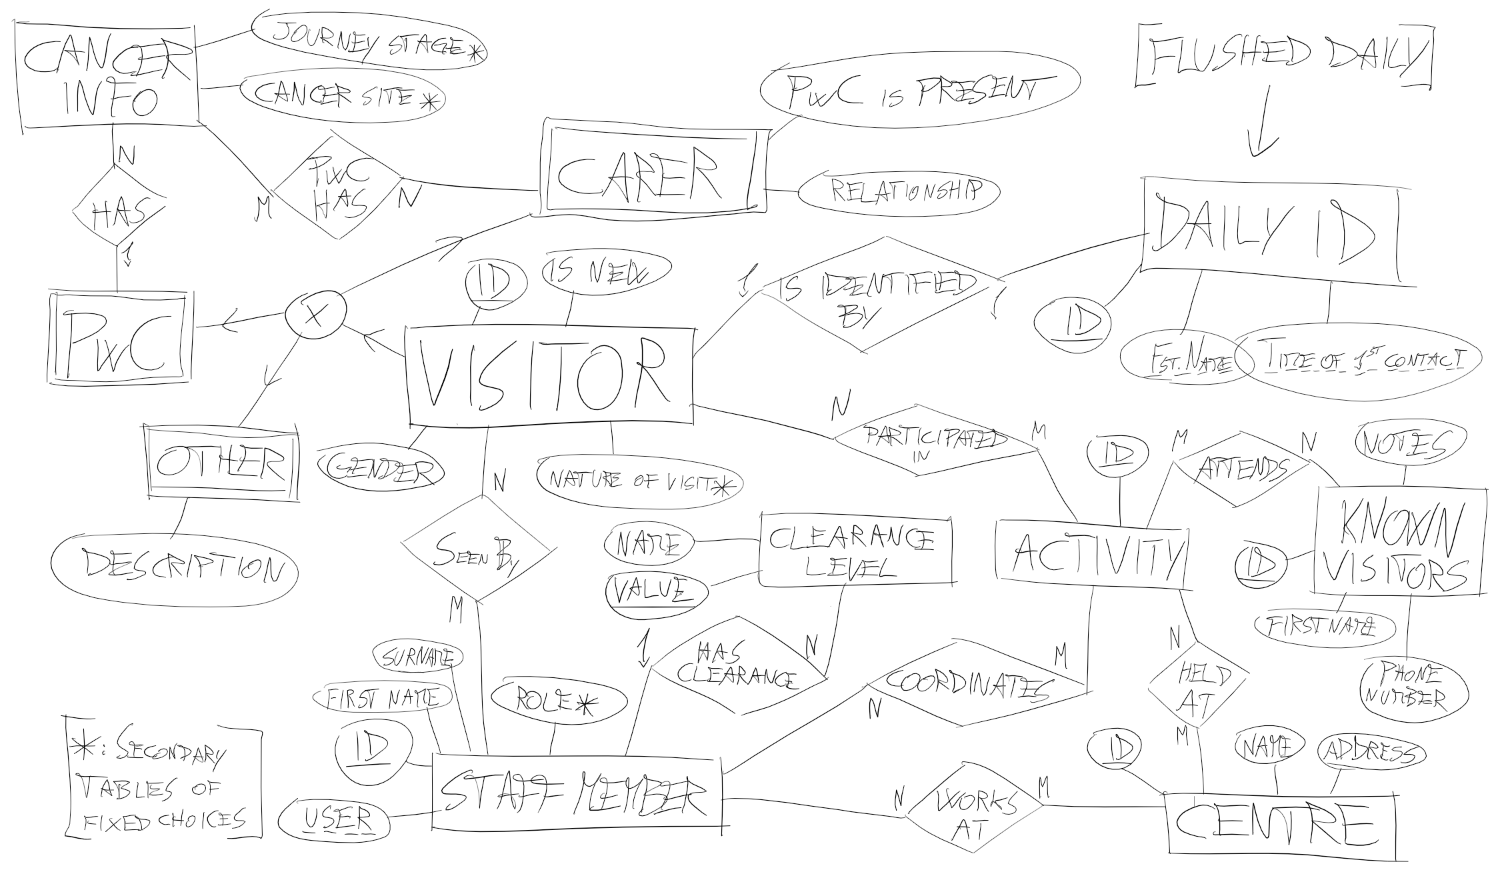
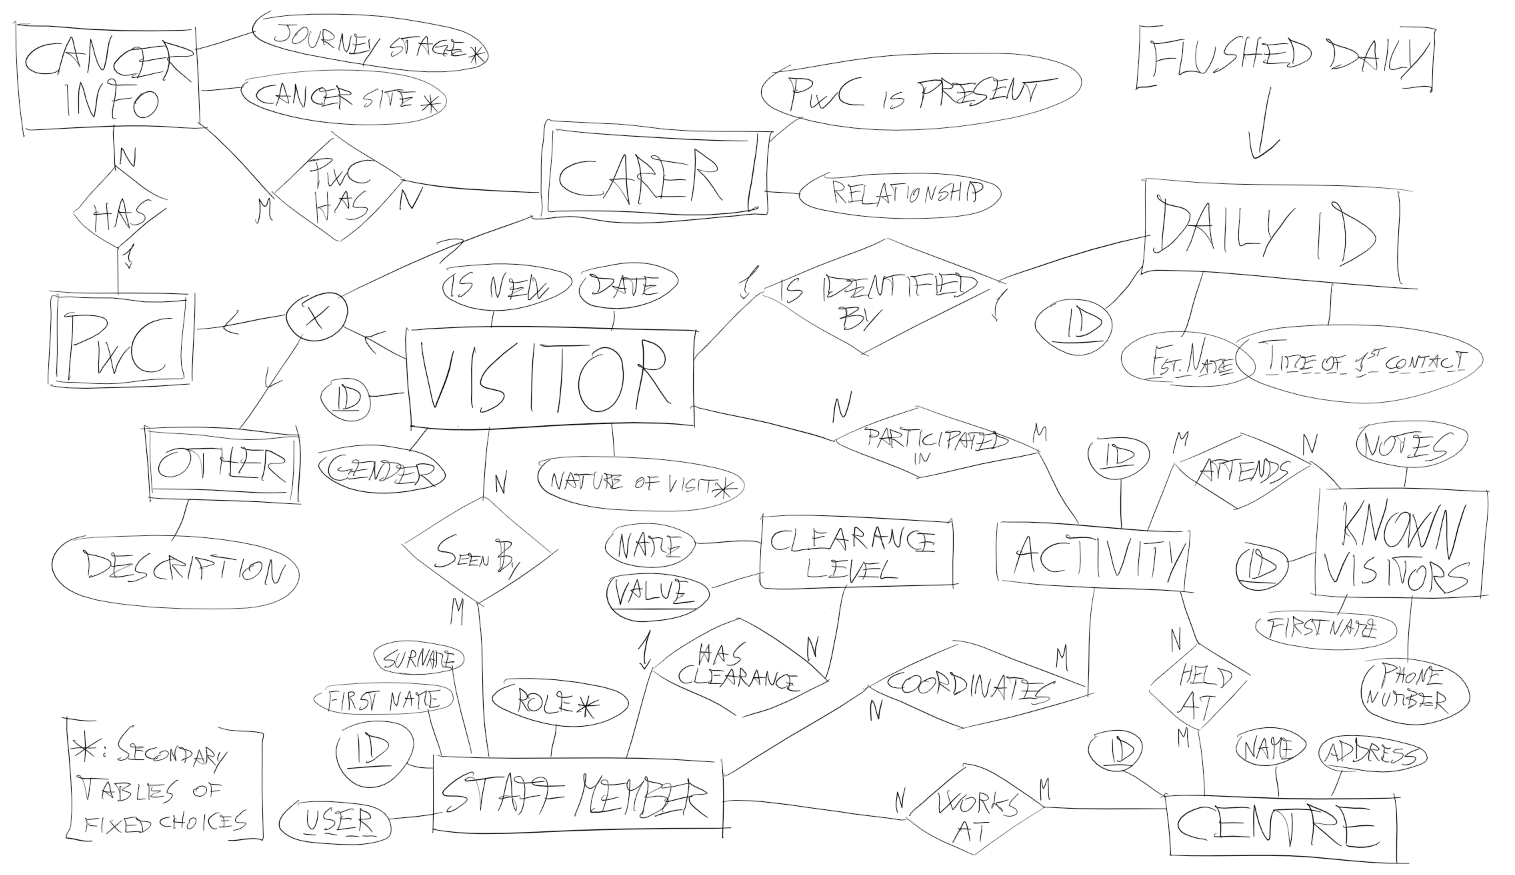
Added visit_date field to Visitor

diff --git a/maggies/populate.py b/maggies/populate.py
@@ -1,4 +1,5 @@
 import os
+from datetime import datetime
 
 def populate():
     if not User.objects.filter(username="test").exists():
@@ -49,7 +50,8 @@ def populate():
     add_pwc(is_new_visitor=True, gender="M", nature_of_visit=booked_nature, cancer_info=add_cancer_info(sarcoma_site, curativeintent_stage))
 
 def add_pwc(is_new_visitor, gender, nature_of_visit, cancer_info):
-    v = Visitor.objects.get_or_create(is_new_visitor=is_new_visitor,
+    v = Visitor.objects.get_or_create(visit_date=datetime.now(),
+                                        is_new_visitor=is_new_visitor,
                                         gender=gender,
                                         nature_of_visit=nature_of_visit)[0]
 
@@ -58,7 +60,8 @@ def add_pwc(is_new_visitor, gender, nature_of_visit, cancer_info):
     return p
 
 def add_carer(is_new_visitor, gender, nature_of_visit, pwc_cancer_info, pwc_present, caring_for, relationship):
-    v = Visitor.objects.get_or_create(is_new_visitor=is_new_visitor,
+    v = Visitor.objects.get_or_create(visit_date=datetime.now(),
+                                        is_new_visitor=is_new_visitor,
                                         gender=gender,
                                         nature_of_visit=nature_of_visit)[0]
 
@@ -70,7 +73,8 @@ def add_carer(is_new_visitor, gender, nature_of_visit, pwc_cancer_info, pwc_pres
     return p
 
 def add_othervisitor(description, is_new_visitor, gender, nature_of_visit):
-    v = Visitor.objects.get_or_create(is_new_visitor=is_new_visitor,
+    v = Visitor.objects.get_or_create(visit_date=datetime.now(),
+                                        is_new_visitor=is_new_visitor,
                                         gender=gender,
                                         nature_of_visit=nature_of_visit)[0]
 

diff --git a/maggies/maggies/models.py b/maggies/maggies/models.py
@@ -29,6 +29,7 @@ class JourneyStage(models.Model):
         return self.stage
 
 class Visitor(models.Model):
+    visit_date = models.DateField()
     is_new_visitor = models.BooleanField()
     gender = models.CharField(max_length=1, choices=GENDER_CHOICES)
     nature_of_visit = models.ForeignKey(VisitNature)
